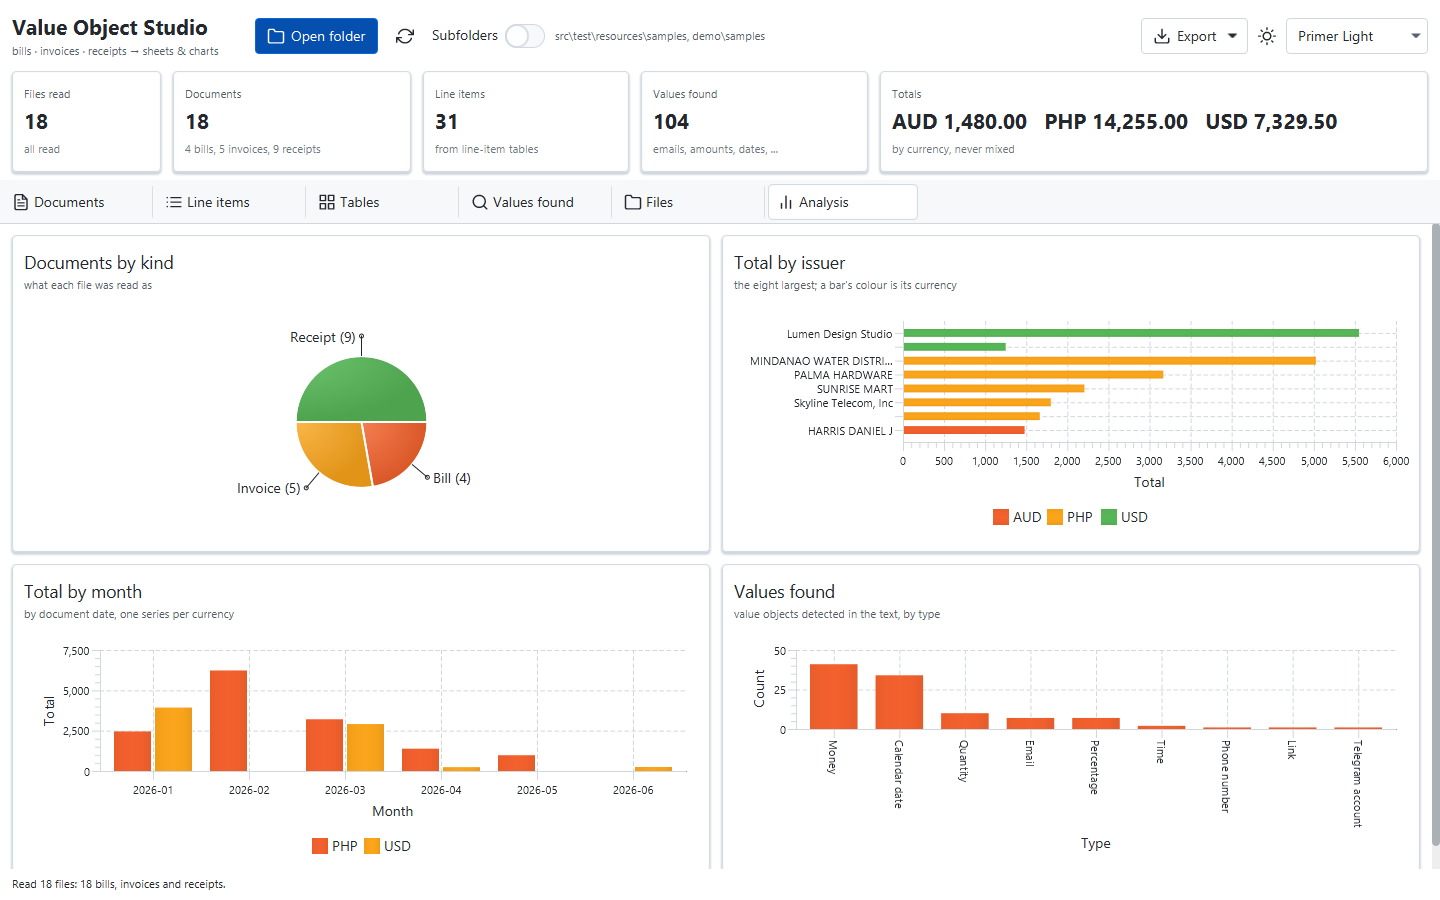
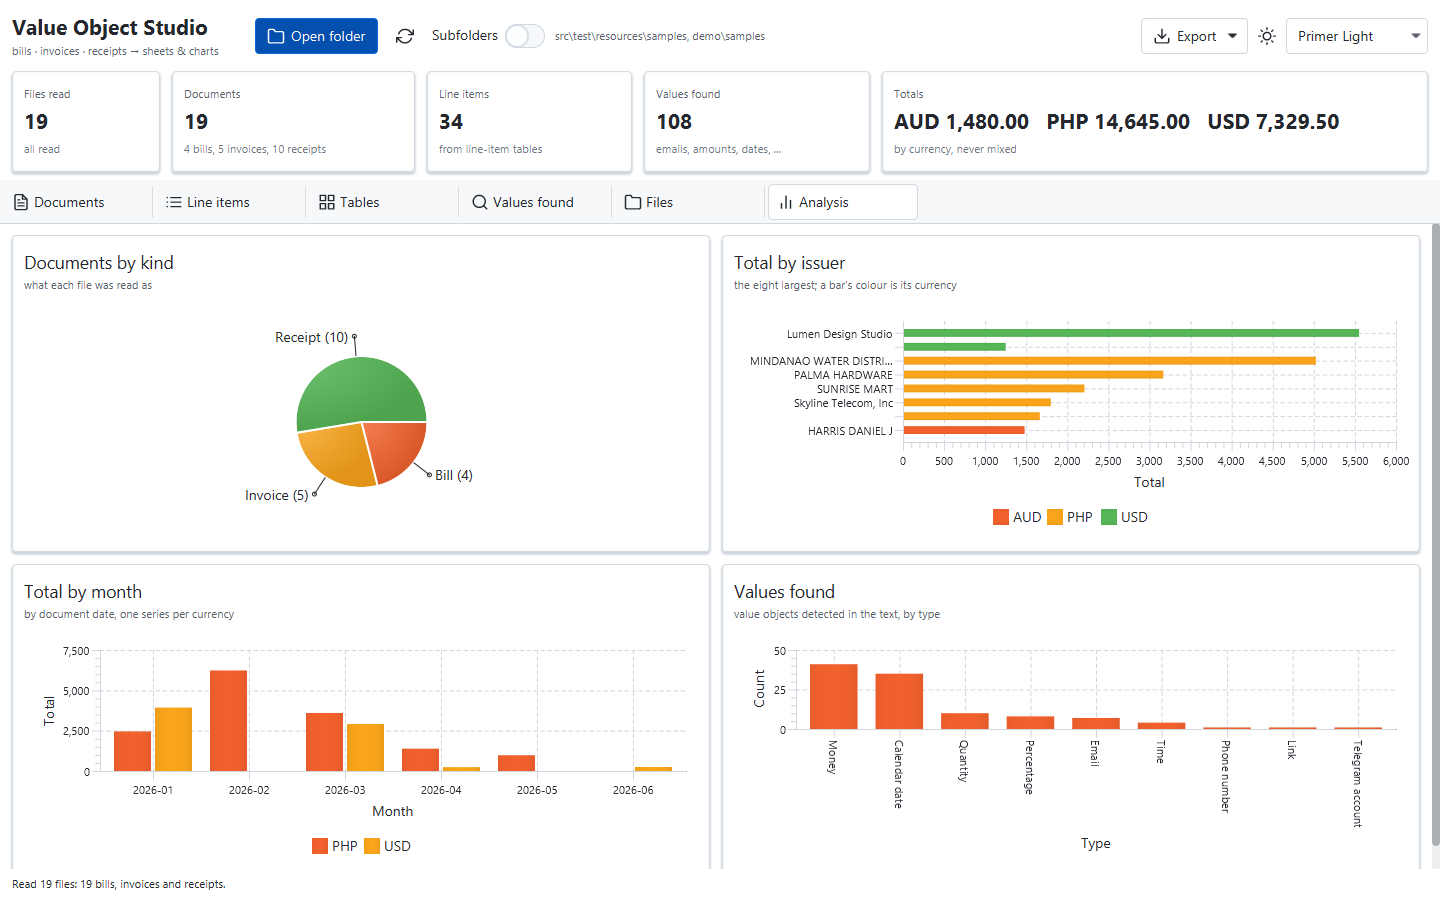
Demo reads PDFs; README, CHANGELOG, PowerShell screenshot script, new screenshots
Claude-Session: https://claude.ai/code/session_01N73mUNc6sXctArEQ1KkZ2B

diff --git a/demo/src/main/java/io/joshuasalcedo/valueobject/demo/Scan.java b/demo/src/main/java/io/joshuasalcedo/valueobject/demo/Scan.java
@@ -7,6 +7,7 @@ import io.joshuasalcedo.valueobject.financial.BillingDocument;
 import io.joshuasalcedo.valueobject.financial.Invoice;
 import io.joshuasalcedo.valueobject.financial.Receipt;
 import io.joshuasalcedo.valueobject.ocr.Ocr;
+import io.joshuasalcedo.valueobject.pdf.Pdf;
 import io.joshuasalcedo.valueobject.table.Layout;
 import io.joshuasalcedo.valueobject.table.Table;
 
@@ -34,6 +35,7 @@ final class Scan {
 
     static final Set<String> IMAGES = Set.of("png", "jpg", "jpeg", "tif", "tiff", "bmp");
     static final Set<String> TEXTS = Set.of("txt", "tsv", "text");
+    static final Set<String> PDFS = Set.of("pdf");
 
     /**
      * What one file held.
@@ -91,7 +93,8 @@ final class Scan {
         List<Path> files = new ArrayList<>();
         for (Path folder : folders) {
             try (Stream<Path> s = deep ? Files.walk(folder) : Files.list(folder)) {
-                s.filter(Files::isRegularFile).filter(p -> IMAGES.contains(ext(p)) || TEXTS.contains(ext(p))).sorted().forEach(files::add);
+                s.filter(Files::isRegularFile).filter(p -> IMAGES.contains(ext(p)) || TEXTS.contains(ext(p)) || PDFS.contains(ext(p)))
+                        .sorted().forEach(files::add);
             }
         }
         // prefer the text of a document over reading its image again
@@ -99,7 +102,7 @@ final class Scan {
         for (Path f : files) {
             Path stem = f.resolveSibling(stem(f));
             Path seen = byStem.get(stem);
-            if (seen == null || (TEXTS.contains(ext(f)) && IMAGES.contains(ext(seen)))) byStem.put(stem, f);
+            if (seen == null || rank(f) < rank(seen)) byStem.put(stem, f);
         }
         List<Path> chosen = new ArrayList<>(byStem.values());
 
@@ -116,6 +119,11 @@ final class Scan {
                         if (ocr == null) ocr = Ocr.english();
                         text = ocr.text(f);
                         source = "OCR";
+                    } else if (PDFS.contains(ext(f))) {
+                        // the text layer; scanned pages through OCR when it is set up on this machine
+                        if (ocr == null && Ocr.findTessdata("eng").isPresent()) ocr = Ocr.english();
+                        text = Pdf.text(f, ocr);
+                        source = "PDF";
                     } else {
                         text = Layout.text(Files.readString(f, StandardCharsets.UTF_8));
                         source = "Text";
@@ -123,7 +131,8 @@ final class Scan {
                     out.add(new FileResult(f, source, text, BillingDocument.detect(text), ValueObject.tables(text),
                             ValueObject.scan(text), "", Duration.ofNanos(System.nanoTime() - start)));
                 } catch (RuntimeException | IOException | LinkageError e) {
-                    out.add(new FileResult(f, IMAGES.contains(ext(f)) ? "OCR" : "Text", "", Optional.empty(), List.of(),
+                    out.add(new FileResult(f, IMAGES.contains(ext(f)) ? "OCR" : PDFS.contains(ext(f)) ? "PDF" : "Text", "",
+                            Optional.empty(), List.of(),
                             List.of(), String.valueOf(e.getMessage()), Duration.ofNanos(System.nanoTime() - start)));
                 }
                 progress.accept(i + 1, chosen.size());
@@ -132,6 +141,12 @@ final class Scan {
             if (ocr != null) ocr.close();
         }
         return out;
+    }
+
+    /** Text first, then a PDF, then an image: the cheapest faithful copy of a document wins. */
+    private static int rank(Path p) {
+        String e = ext(p);
+        return TEXTS.contains(e) ? 0 : PDFS.contains(e) ? 1 : 2;
     }
 
     static String ext(Path p) {

diff --git a/demo/src/main/java/io/joshuasalcedo/valueobject/demo/DemoApp.java b/demo/src/main/java/io/joshuasalcedo/valueobject/demo/DemoApp.java
@@ -229,8 +229,8 @@ public class DemoApp extends Application {
 
     private void showEmpty() {
         Message hint = new Message("Nothing open yet",
-                "Open a folder (or drop one on the window). Images (png, jpg, tiff) are read with OCR in the JVM; "
-                        + ".txt and .tsv files as they are. Each file becomes a row: a bill, invoice or receipt with its parties, "
+                "Open a folder (or drop one on the window). PDFs are read from their text (scanned pages with OCR), "
+                        + "images (png, jpg, tiff) with OCR in the JVM, and .txt and .tsv files as they are. Each file becomes a row: a bill, invoice or receipt with its parties, "
                         + "totals and line items, its tables, and every value object in it.",
                 new FontIcon(Feather.INFO));
         hint.getStyleClass().add(Styles.ACCENT);
@@ -401,7 +401,11 @@ public class DemoApp extends Application {
                     return;
                 }
                 setText(r.name() + "  —  " + r.kind() + " · " + r.source() + " · " + r.took().toMillis() + " ms");
-                setGraphic(new FontIcon(r.error().isEmpty() ? (r.source().equals("OCR") ? Feather.IMAGE : Feather.FILE_TEXT) : Feather.ALERT_TRIANGLE));
+                setGraphic(new FontIcon(!r.error().isEmpty() ? Feather.ALERT_TRIANGLE : switch (r.source()) {
+                    case "OCR" -> Feather.IMAGE;
+                    case "PDF" -> Feather.FILE;
+                    default -> Feather.FILE_TEXT;
+                }));
             }
         });
         TextArea text = new TextArea();

diff --git a/README.md b/README.md
@@ -20,14 +20,24 @@ email address, to the tables in a page of OCR, to a whole bill, invoice or recei
 | `contact` | `Email`, `PhoneNumber`, `Link`, `Address`, `FullName` (parses printed names: titles, suffixes, *dela Cruz*), `Party` |
 | `financial` | `Money`, `Currency` (`FiatCurrency` ISO 4217, `CryptoCoin`), `Percentage`, `PaymentTerms` (Net 30, EOM, 2/10 Net 30, MFI, COD), `CardNumber` (Luhn, masked), `MaskedCard`, `Iban` (mod-97), `Bic`, `Bill`, `Invoice`, `Receipt`, `LineItem` |
 | `measurement` | `UnitOfMeasure` (UN/ECE Rec 20 codes), `Quantity`, `Weight`, `Distance`, `FileSize` |
-| `temporal` | `CalendarDate` (every printed form), `DateRange`, `Timestamp`, `DateTimeWithZone`, `Time`, `TimeZone`, `DurationNano` |
-| `geo` | `Country`, `Continent`, `Language`, `Demonym`, `PostalCode`, `Coordinates` |
+| `temporal` | `CalendarDate` (every printed form), `DateRange`, `Timestamp`, `DateTimeWithZone`, `Time`, `TimeZone`, `DurationNano`, `RecurrenceInterval` |
+| `geo` | `Country` (all 249 ISO 3166-1), `Continent`, `Language` (ISO 639-1), `Demonym`, `PostalCode`, `Coordinates` |
 | `identifier` | `UniqueId`, `Slug`, `Username`, `DisplayName`, `JwtToken`, `TaxId` (PH TIN, EU VAT, US EIN), `Gtin` (EAN/UPC) |
-| `network` | `IpAddress` (v4, v6), `MacAddress`, `Port`, `DomainName`, `OperatingSystem` |
+| `network` | `IpAddress` (v4, v6; literals only, never a DNS lookup), `MacAddress`, `Port`, `DomainName`, `OperatingSystem` |
 | `file`, `table`, `visual`, … | `FileType`, `Table`, `Color`, `SemanticVersion`, `Gender`, … |
 
 Every one implements `ValueObject`, validates itself when made (`ValueObjectException` when it is wrong), and is equal
 by value. Optional parts are `Optional`, never `null`; lists are empty, never `null`.
+
+Every type reads text the same way:
+
+```java
+Email.parse("jane@example.com");     // the value, or ValueObjectException
+Email.tryParse(input);               // Optional<Email>; never throws, null is empty
+Email.isValid(input);                // boolean; never throws
+Country.parse("PH");  Country.parse("Philippines");   // enums: by code or by name
+Country.UNKNOWN.isUnknown();         // enums keep UNKNOWN for "printed but not recognised"
+```
 
 ## One way in: `ValueObject`
 
@@ -80,17 +90,39 @@ if (doc instanceof Invoice inv) inv.dueDate();   // printed, or worked out from 
 Columns are found where cells line up; the value objects in them name their types, join split columns
 (`149.99` + `USD`) and tell the header row from the data.
 
-## Images: OCR in the JVM
+Reading documents is guesswork, so nothing read throws its input away. When a part comes out wrong, the raw data is
+there to read again, by hand, with your own rules, or with an LLM:
+
+| Result | Keeps |
+|---|---|
+| `BillingDocument` | `text()`: the whole input; `sources()`: each field's label, line and printed value; `found()`, `metadata()` |
+| `LineItem` | `printed()`: every cell of its row as printed, by column name |
+| `Table` | `text()`: the lines it was read from; `firstLine()`, `lastLine()`, `page()` |
+| `Party` | the lines its name, address and contacts were read from |
+| `Found` | `text()`, `start()`, `end()`: the match and where it is; `shape()`: the regex |
+| `Ocr`, `Pdf` | `rawText`, `tsv` (words with their boxes), `Pdf.words`: the input before any layout |
+
+Labels are read in English and Filipino (*Resibo Blg.*, *Petsa*, *Kabuuan*, *Ibinayad*, *Sukli*, *Mamimili*, …). A
+bare `$` is the dollar of the country the document is from (AUD in Australia, CAD in Canada) and USD anywhere else.
+
+## Images and PDFs
 
 ```java
-try (Ocr ocr = Ocr.english()) {
-    Receipt r = Receipt.parse(ocr.text(Path.of("receipt.png")));
+try (Ocr ocr = Ocr.english()) {                     // or Ocr.of("eng", "fil")
+    Receipt r = (Receipt) BillingDocument.parse(ocr.text(Path.of("receipt.png")));
+    String invoice = Pdf.text(Path.of("invoice.pdf"), ocr);   // the text layer; scanned pages through OCR
 }
+Pdf.text(Path.of("invoice.pdf"));                   // a PDF with a text layer needs no OCR
 ```
 
-`Ocr` runs Tesseract inside the JVM: no install, no Docker. Its native libraries come with
-`org.bytedeco:tesseract-platform:5.5.0-1.5.11`, an **optional** dependency of this library: add it to use OCR. It needs
-the English language data (`eng.traineddata`), found through `TESSDATA_PREFIX` or the usual install folders.
+`Ocr` runs Tesseract inside the JVM: no install, no Docker. `Pdf` lays a PDF's text out as it is on the page, the
+same way `Ocr.text` lays out an image, so tables and labels read the same from both. Both are **optional**: add the
+dependency for what you use.
+
+| To use | Add |
+|---|---|
+| `Ocr` | `org.bytedeco:tesseract-platform:5.5.0-1.5.11`, and the language data (`eng.traineddata`, `fil.traineddata`, …) found through `TESSDATA_PREFIX` or the usual install folders |
+| `Pdf` | `org.apache.pdfbox:pdfbox:3.0.8` |
 
 ## CSV and JSON
 
@@ -101,13 +133,38 @@ Csv.of(ValueObject.scan(text));
 table.toCsv();
 ```
 
+Both read back what they write, with no library:
+
+```java
+Json.read(json, Invoice.class);        Json.readList(json, Found.class);
+Csv.read(csv, LineItem.class);         Csv.readTable(csv);   // a Table, its columns typed again
+```
+
 Card numbers are always written masked.
+
+## Connectors
+
+All optional: add the library you use.
+
+```java
+// Jackson 2 (com.fasterxml.jackson) or Jackson 3 (tools.jackson)
+new ObjectMapper().registerModule(new io.joshuasalcedo.valueobject.jackson.ValueObjectModule());
+JsonMapper.builder().addModule(new io.joshuasalcedo.valueobject.jackson3.ValueObjectModule()).build();
+
+// Jakarta Persistence: Converters.* are @Converter(autoApply = true); a value object is one readable column
+@Entity class Customer { Email email; Money balance; Country country; }   // "jane@example.com", "149.99 USD", "PH"
+
+// Jakarta Validation, for strings at the edge of an application
+record SignUp(@ValidEmail String email, @ValidIban String iban, @ValidValue(ValueObject.Type.COUNTRY) String country) {}
+```
+
+The jar's module name is `io.joshuasalcedo.valueobject`.
 
 ## The demo: Value Object Studio
 
 A desktop app (JavaFX, [AtlantaFX](https://github.com/mkpaz/atlantafx) themes,
 [ControlsFX](https://controlsfx.github.io/) spreadsheets, [Ikonli](https://kordamp.org/ikonli/) icons) that reads a
-folder (images through OCR, `.txt`/`.tsv` as they are) and shows what the library found:
+folder (PDFs, images through OCR, `.txt`/`.tsv` as they are) and shows what the library found:
 
 | | |
 |---|---|
@@ -121,6 +178,7 @@ mvn install                        # the library, into ~/.m2
 mvn -f demo/pom.xml javafx:run     # open the app, then open a folder (or drop one on it)
 mvn -f demo/pom.xml javafx:run "-Djavafx.args=--folder samples --theme Dracula"   # open with a folder read
 demo/screenshots.sh                # run it on the samples and save the screenshots above into image/
+demo\screenshots.ps1               # the same, in PowerShell
 ```
 
 Every sample document is made up (fictional brands, people, addresses and numbers): the library's test documents in
@@ -129,7 +187,7 @@ Every sample document is made up (fictional brands, people, addresses and number
 ## Build
 
 ```sh
-mvn verify      # compile, test, sources and Javadoc jars
+mvn verify      # compile, test, sources and Javadoc jars; a missing Javadoc comment fails the build
 mvn install     # into ~/.m2
 ```
 
@@ -145,6 +203,8 @@ Repository secrets it needs:
 | `MAVEN_CENTRAL_USERNAME` / `MAVEN_CENTRAL_PASSWORD` | a Central Portal user token |
 | `SIGNING_KEY` | an ASCII-armoured private PGP key |
 | `SIGNING_KEY_PASSWORD` | its passphrase |
+
+Changes are in [CHANGELOG.md](CHANGELOG.md).
 
 ## License
 

diff --git a/CHANGELOG.md b/CHANGELOG.md
@@ -1,0 +1,50 @@
+# Changelog
+
+All notable changes to this library. The format follows [Keep a Changelog](https://keepachangelog.com/en/1.1.0/),
+and versions follow [Semantic Versioning](https://semver.org/). Until 1.0.0, a minor version may change the API.
+
+## [Unreleased] — 0.1.0
+
+The first release.
+
+### Value objects
+- **Contact:** `Email`, `PhoneNumber` (country code by the ITU prefixes), `Link`, `Address`, `FullName` (parses printed
+  names: titles, suffixes, *dela Cruz*), `Party`.
+- **Financial:** `Money`, `Currency` (`FiatCurrency` ISO 4217, `CryptoCoin` with `Known` and `Custom` coins),
+  `Percentage`, `PaymentTerms` (Net 30, EOM, 2/10 Net 30, MFI, COD, CIA), `CardNumber` (Luhn, always masked),
+  `MaskedCard`, `CardBrand`, `Iban` (mod-97), `Bic`, `LineItem`, `Bill`, `Invoice`, `Receipt`.
+- **Measurement:** `UnitOfMeasure` (UN/ECE Recommendation 20 codes; every symbol reads back as its unit), `Quantity`,
+  `Weight`, `Distance`, `FileSize` (read from text such as `2.5 kg`, `1.5 GB`).
+- **Temporal:** `CalendarDate` (every printed form), `DateRange`, `Timestamp`, `DateTimeWithZone`, `Time`,
+  `TimeZone`, `DurationNano`, `RecurrenceInterval`.
+- **Geo:** `Country` (all 249 ISO 3166-1 countries), `Continent`, `Language` (ISO 639-1), `Demonym`, `PostalCode`,
+  `Coordinates`.
+- **Identifiers:** `UniqueId`, `Slug`, `Username`, `DisplayName`, `JwtToken`, `TaxId` (PH TIN, EU VAT, US EIN), `Gtin`.
+- **Network and more:** `IpAddress` (v4, v6, no DNS lookups), `MacAddress`, `Port`, `DomainName`, `FileType`, `Table`,
+  `Color`, `SemanticVersion`, `Gender`, and others.
+- One standard on every type: `parse(String)` throws `ValueObjectException`, `tryParse(String)` returns an `Optional`,
+  `isValid(String)` a boolean. No null placeholders; enums keep `UNKNOWN`, tested with `isUnknown()`.
+
+### Finding value objects in text
+- `ValueObject` is generated (`codegen/GenerateValueObject.java`): `Type` lists every value object, `Parse` makes one
+  from anything its factories take, `Validate` checks input (`Validate.MONEY.is.USD`).
+- `ValueObject.detect`, `find`, `scan` (each value with the regex that matched it), `identify`, `parse`.
+- Tables in text (`ValueObject.tables`): plain text, Tesseract TSV or positioned words; columns typed by their values;
+  rows anchored on their numbers, wrapped and centred descriptions joined to their row.
+- Bills, invoices and receipts (`BillingDocument.parse`): parties, line items with units, totals, payment terms and due
+  dates, metadata, and the source of every field. English and Filipino labels. With no currency printed, the currency of
+  the country the document is from.
+
+### Reading files (optional dependencies)
+- OCR in the JVM (`Ocr`, Tesseract through JavaCPP): no install, no Docker; English and other languages.
+- PDFs (`Pdf`, PDFBox): the text layer laid out as on the page, scanned pages through OCR.
+
+### Formats and connectors
+- CSV and JSON, written and read back (`Csv`, `Json`), with no library; card numbers always masked.
+- Jackson 2 and Jackson 3 modules, Jakarta Persistence converters, Jakarta Validation constraints (`@ValidValue`,
+  `@ValidEmail`, `@ValidPhoneNumber`, `@ValidIban`, `@ValidTaxId`, `@ValidMoney`). All optional.
+
+### Build
+- Javadoc with every doclint check on; a missing comment fails the build.
+- CI and release check that `ValueObject.java` is generated from the current value objects.
+- `Automatic-Module-Name: io.joshuasalcedo.valueobject`.
